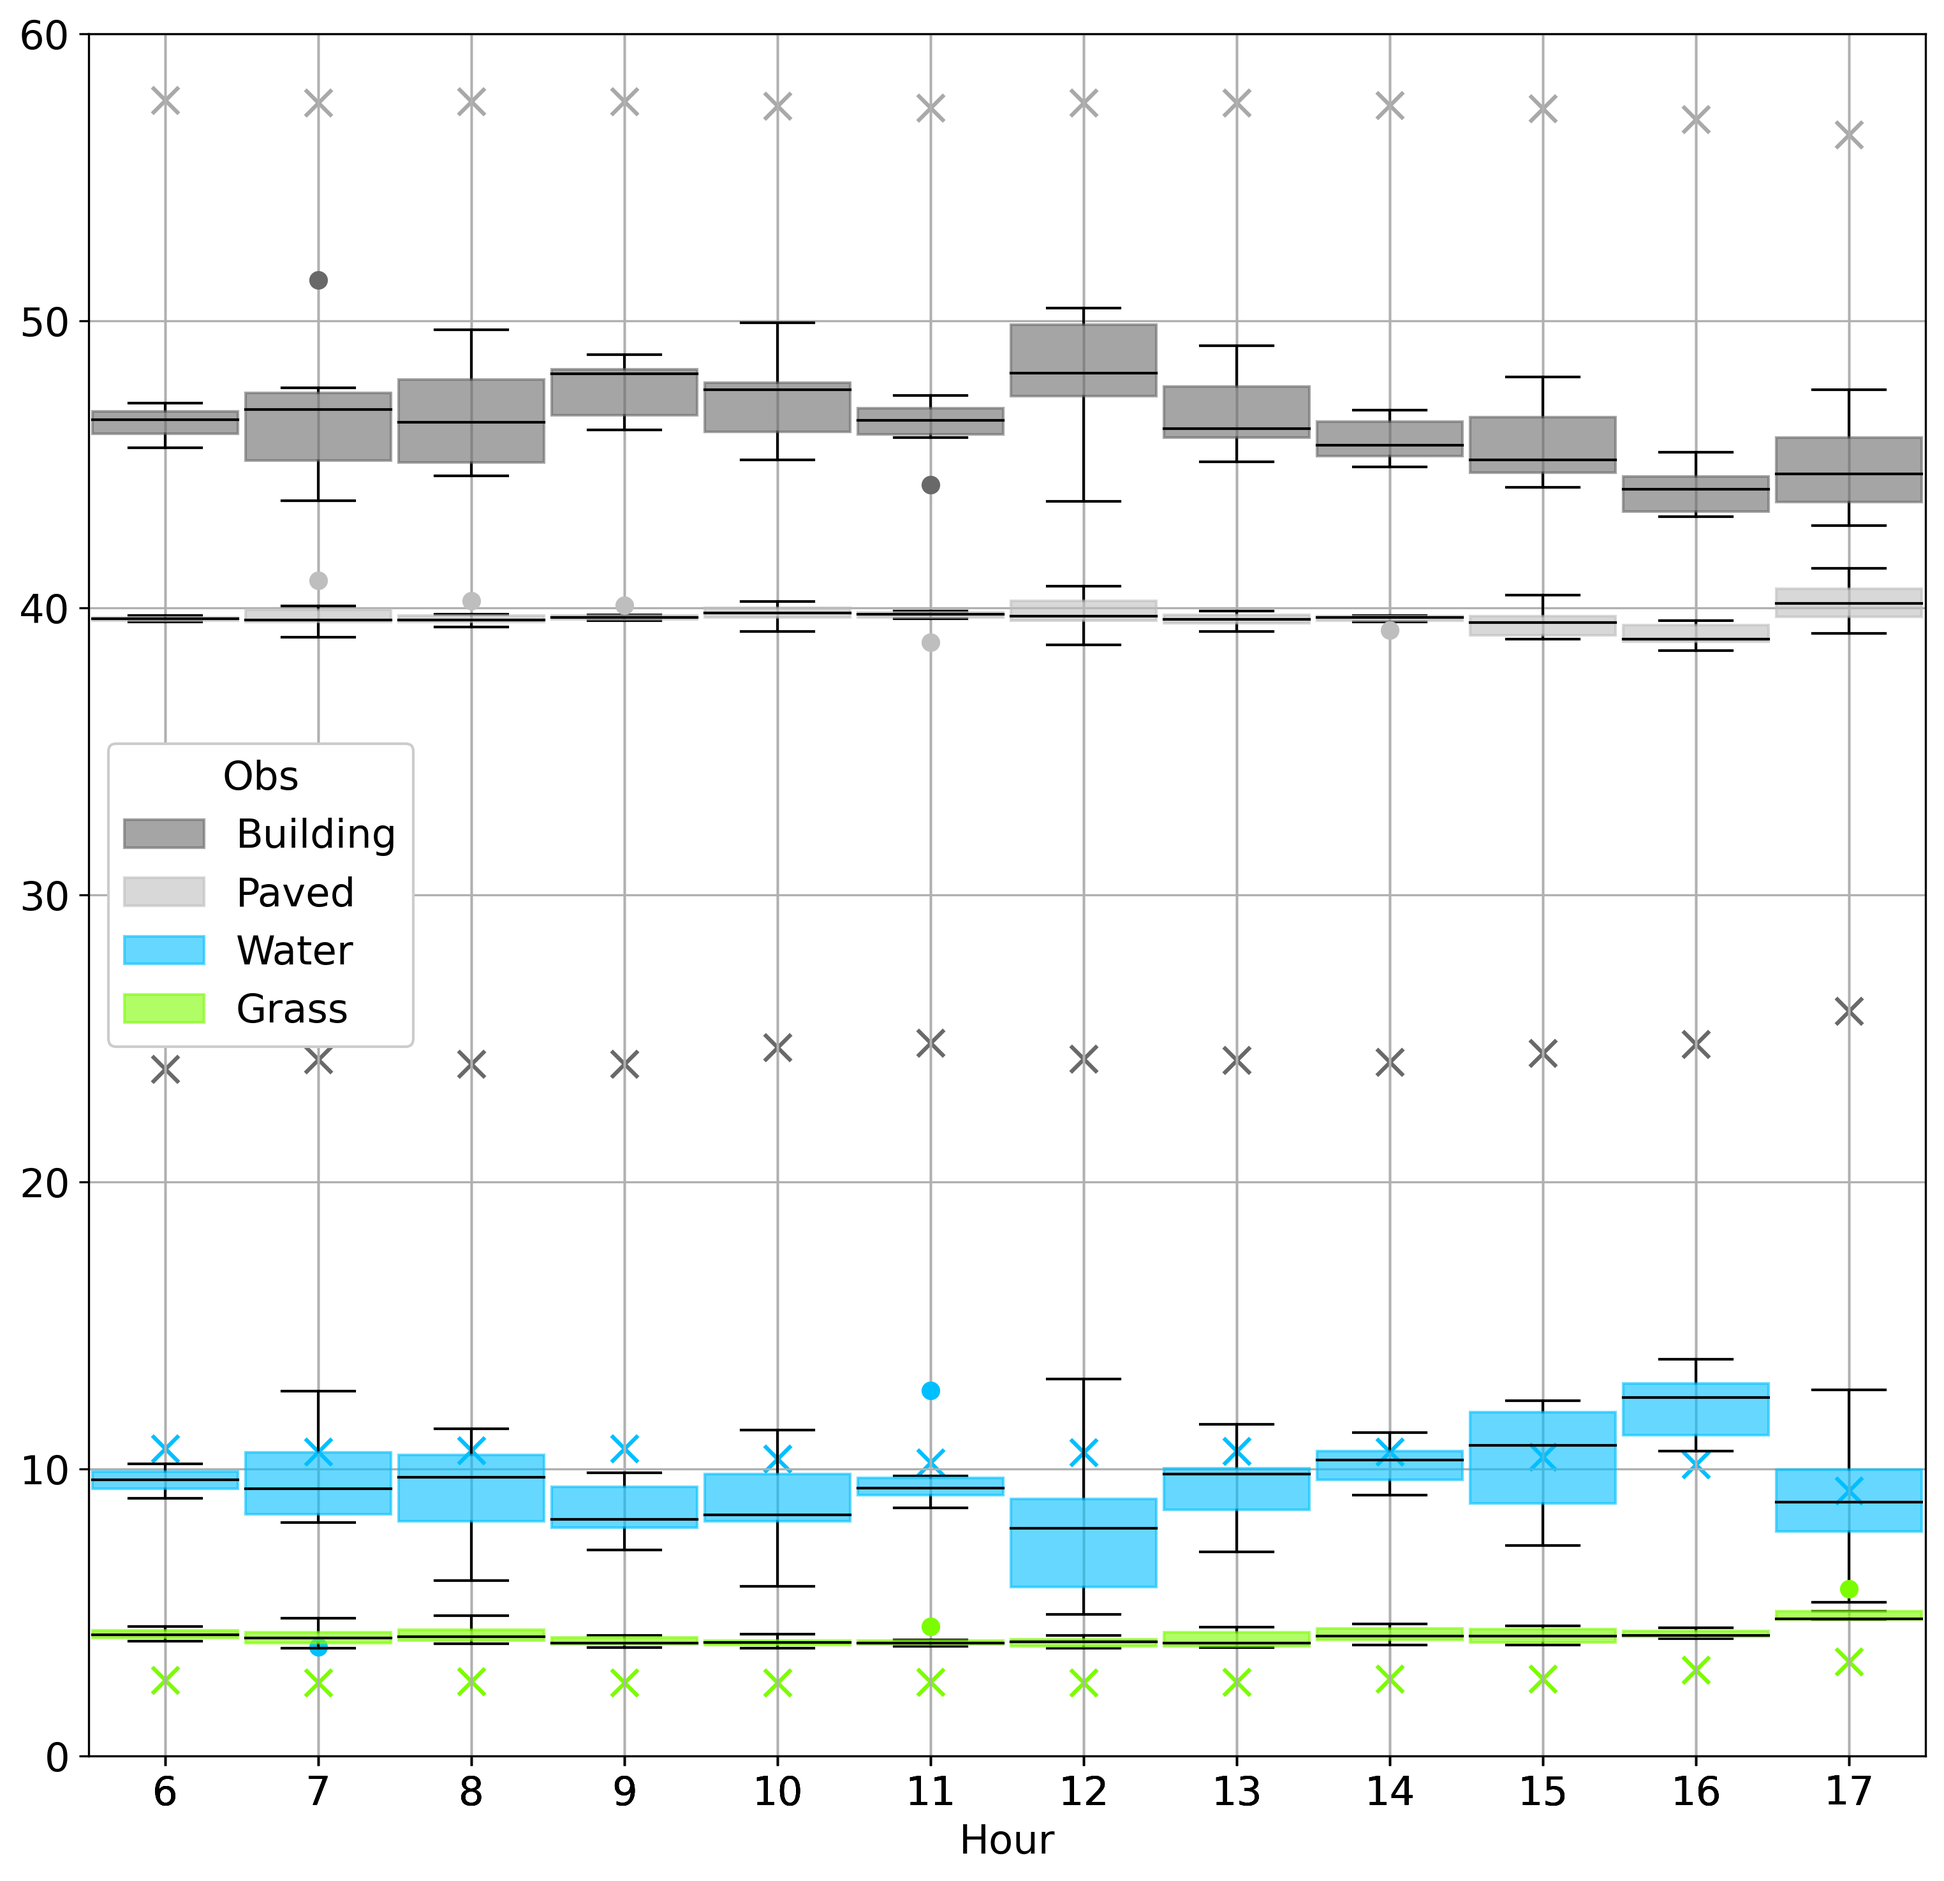
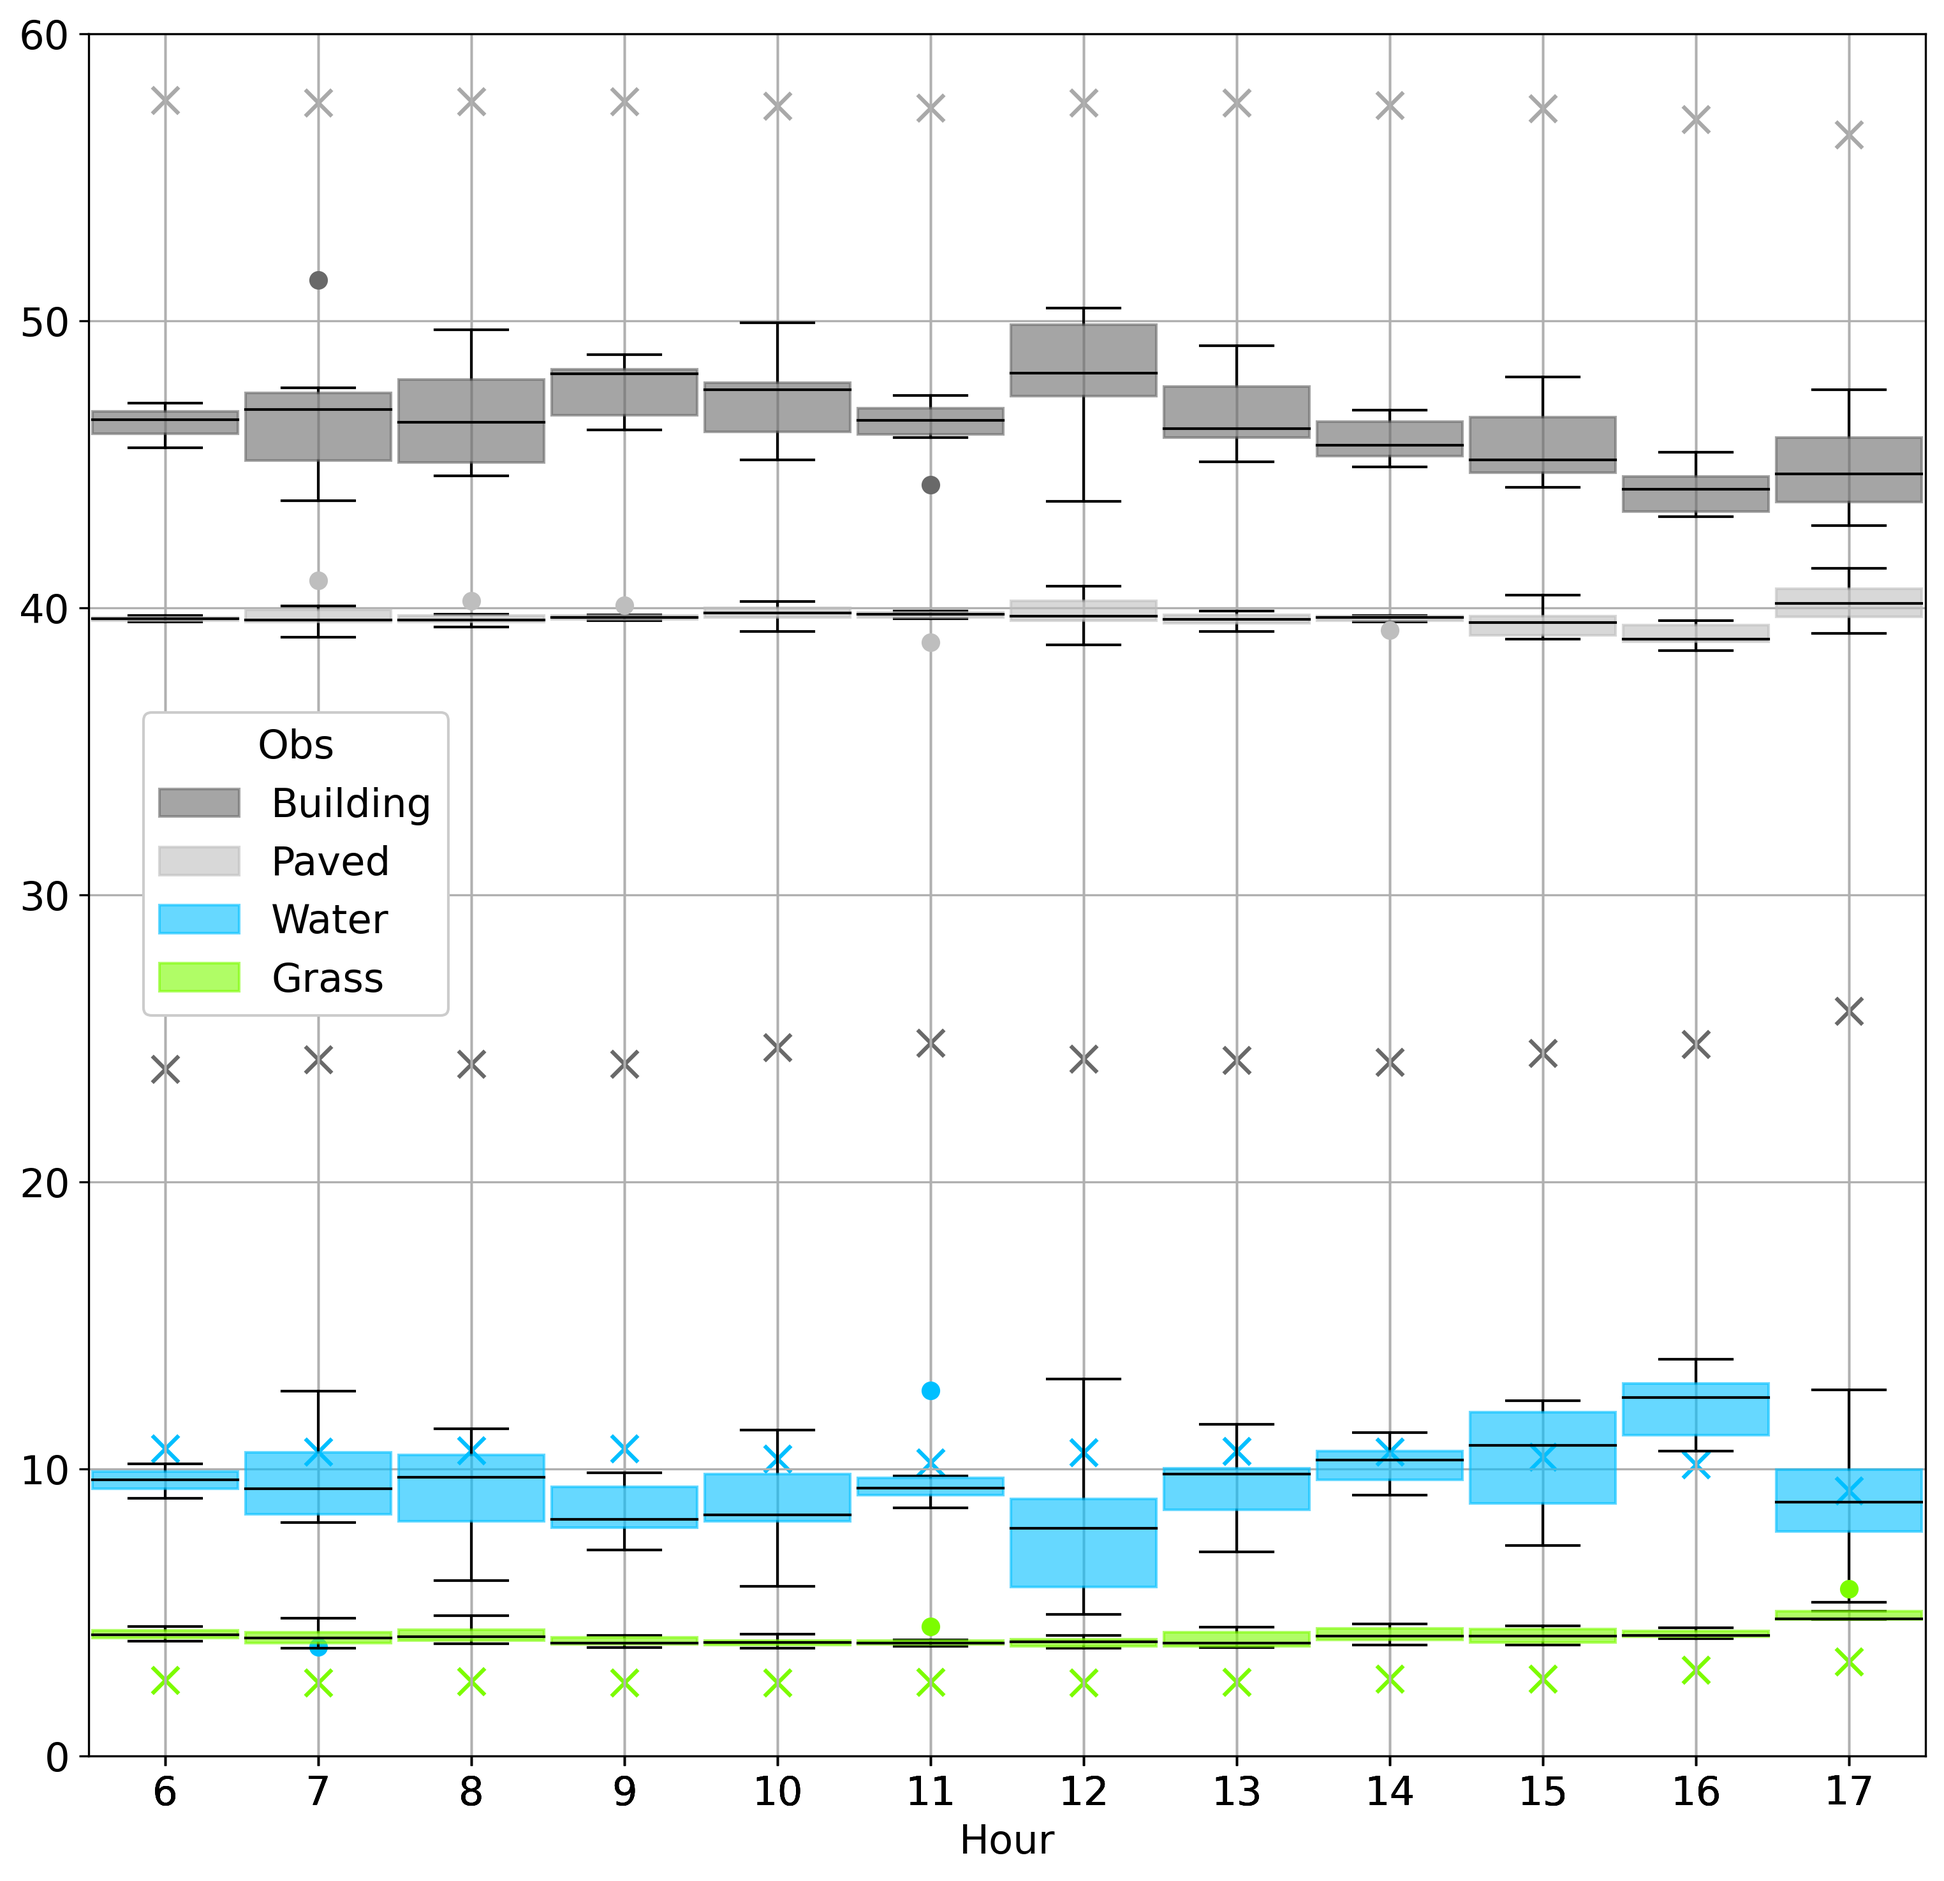
add model legend and position

Changed region(s): [[0.0623, 0.3744, 0.2182, 0.5615]]

diff --git a/scint_plots/sa_position_and_lc_fraction/lc_boxplot_funs.py b/scint_plots/sa_position_and_lc_fraction/lc_boxplot_funs.py
@@ -102,16 +102,20 @@ def lc_in_sa_stacked_bar(sas_df_in, save_path):
     grass_patch = mpatches.Patch(color='#7CFC00', label='Grass', alpha=0.6)
 
     ukv_can = ax.scatter(ukv_df.index.hour - (ukv_df.index.hour[0] - 1), ukv_df.canyon * 100, marker='x',
-                         color='darkgrey', s=100)
+                         color='darkgrey', s=100, label='Canyon')
     ukv_roof = ax.scatter(ukv_df.index.hour - (ukv_df.index.hour[0] - 1), ukv_df.roof * 100, marker='x',
-                          color='dimgrey', s=100)
+                          color='dimgrey', s=100, label='Roof')
     ukv_c3 = ax.scatter(ukv_df.index.hour - (ukv_df.index.hour[0] - 1), ukv_df.C3 * 100, marker='x', color='lawngreen',
-                        s=100)
+                        s=100, label='C3 grass')
     ukv_lake = ax.scatter(ukv_df.index.hour - (ukv_df.index.hour[0] - 1), ukv_df.lake * 100, marker='x',
-                          color='deepskyblue', s=100)
+                          color='deepskyblue', s=100, label='Inland water')
 
     if sas_df.index[0].strftime('%j') == '123':
-        plt.legend(handles=[bld_patch, imp_patch, water_patch, grass_patch], framealpha=1, title='Obs')
+        plt.legend(handles=[bld_patch, imp_patch, water_patch, grass_patch], framealpha=1, title='Obs', loc=(0.03, 0.43))
+    else:
+        assert sas_df.index[0].strftime('%j') == '126'
+        plt.legend(handles=[ukv_can, ukv_roof, ukv_c3, ukv_lake], framealpha=1, title='Model', loc=(0.75, 0.3))
+
 
     ax.set_ylim(0, 60)
 
